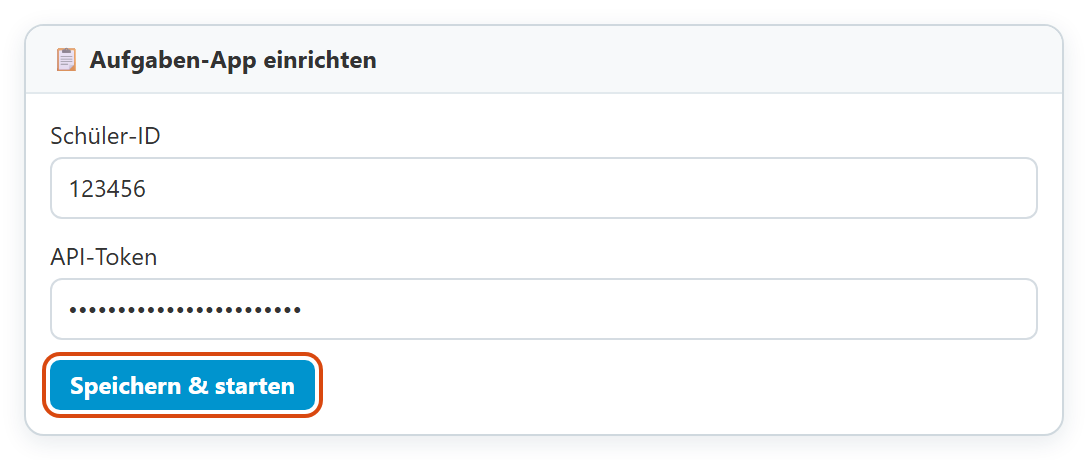
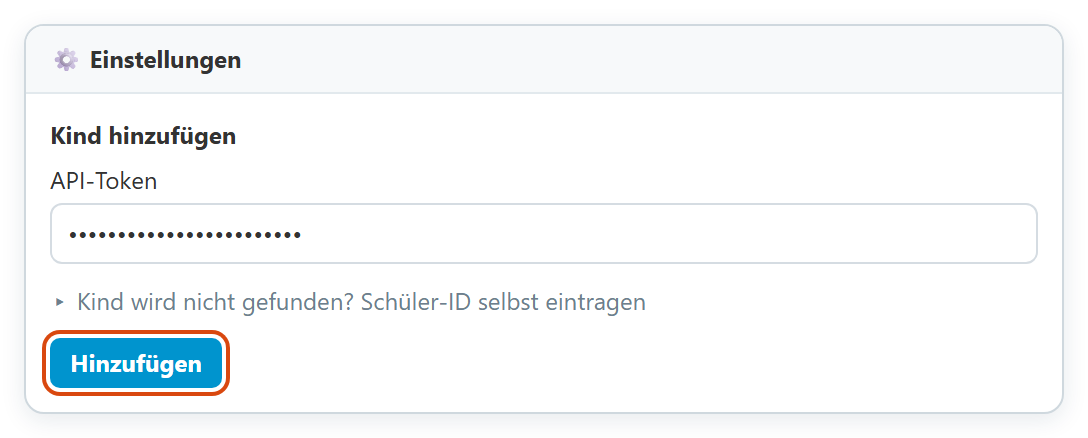
Version 1.0.9: einfachere Einrichtung, ganzes Schuljahr, Hinweis auf neue Versionen

diff --git a/README.md b/README.md
@@ -6,7 +6,7 @@ Die Aufgaben-App zeigt Hausaufgaben, angekündigte Tests, Hinweise der Lehrkräf
 
 - Läuft nur auf deinem Windows-PC, nicht in einer Cloud.
 - Liest nur. Bei beste.schule ändert die App nichts.
-- Verbindet sich ausschließlich mit beste.schule. Keine Werbung, keine Nutzungsstatistik.
+- Verbindet sich nur mit beste.schule und einmal am Tag mit GitHub, um nach einer neuen Version zu schauen. Keine Werbung, keine Nutzungsstatistik.
 - Kostenlos für nicht-kommerzielle Nutzung, der Quellcode ist einsehbar.
 
 <a href="https://github.com/Sunniiii/schuluebersicht/releases/latest"><img src="docs/bilder/download.png" alt="Neueste Version für Windows herunterladen" width="380"></a>
@@ -53,49 +53,39 @@ Warum eine `.cmd` und keine `.exe`? Eine eigene `.exe` ohne kostenpflichtiges Ze
 1. Die Seite [neueste Version](https://github.com/Sunniiii/schuluebersicht/releases/latest) öffnen und unten unter **Assets** auf `Aufgaben-App-<Version>-windows-x64.zip` klicken. Die anderen Dateien brauchst du nicht. Nur von dort laden; zum Weitergeben den Link schicken, nicht die Datei.
 2. **Vor dem Entpacken:** Rechtsklick auf die ZIP-Datei → **Eigenschaften** → unten Haken bei **Zulassen** → **OK**. Ohne diesen Schritt blockiert Windows die Startdatei.
 3. Das ZIP in einen eigenen Ordner entpacken, zum Beispiel unter **Dokumente**.
-4. **Aufgaben-App starten.cmd** doppelklicken. Ein schwarzes Fenster erscheint kurz, dann öffnet sich der Browser mit der Einrichtung. Dabei entstehen Verknüpfungen **Aufgaben-App** auf dem Desktop und im Startmenü; künftig startest du die App darüber.
+4. **Aufgaben-App starten.cmd** doppelklicken. Ein schwarzes Fenster erscheint kurz, dann öffnet sich die App im Browser. Dabei entstehen Verknüpfungen **Aufgaben-App** auf dem Desktop und im Startmenü; künftig startest du die App darüber.
 
-Solange die App läuft, steht ein Symbol im Infobereich unten rechts (eventuell unter dem Pfeil ^). Darüber öffnest oder beendest du die App.
+Solange die App läuft, steht unten rechts neben der Uhr ein blaues Symbol mit weißem Haken (eventuell unter dem Pfeil ^). Daran siehst du, dass die App an ist. Doppelklick darauf öffnet sie, Rechtsklick → **Beenden** schließt sie.
 
 ## Einrichtung
 
-Beim ersten Start fragt die App nach zwei Angaben aus beste.schule und zeigt dort dieselbe Anleitung. Die Bilder sind nachgezeichnet; die Oberfläche von beste.schule kann leicht abweichen.
+Die App braucht einmal einen Schlüssel von beste.schule. Dieser Schlüssel heißt dort **Token**. Dein Kind findet die App damit selbst. Die Bilder sind nachgezeichnet; bei beste.schule kann es etwas anders aussehen.
 
-### 1. Schüler-ID finden
-
-Bei [beste.schule](https://beste.schule) anmelden und die Notenübersicht des Kindes öffnen. In der Adresszeile des Browsers steht dann zum Beispiel `beste.schule/students/123456/grades`. Die Zahl zwischen `/students/` und `/grades` ist die Schüler-ID.
-
-<img src="docs/bilder/schueler-id.png" alt="Adresszeile mit hervorgehobener Schüler-ID 123456" width="520">
-
-### 2. API-Token erstellen
-
-Mit dem Token darf die App die Daten bei beste.schule lesen. Es gehört zu deinem Benutzerkonto und kann für mehrere Kinder gelten.
-
-1. Bei beste.schule oben rechts auf deinen Namen klicken und **Benutzerkonto** wählen.
+1. Öffne [beste.schule](https://beste.schule). Klicke oben rechts auf deinen Namen. Klicke dann auf **Benutzerkonto**.
 
    <img src="docs/bilder/konto-menue.png" alt="Menü unter dem eigenen Namen mit hervorgehobenem Eintrag Benutzerkonto" width="520">
 
-2. Links **API** anklicken. Nach unten zu **Personal Access Tokens** scrollen, nicht **OAuth-Clients** verwenden. Auf **+ Neuen Token erstellen** klicken.
+2. Klicke links auf **API**. Klicke dann auf **+ Neuen Token erstellen**.
 
    <img src="docs/bilder/api-seite.png" alt="Benutzerkonto mit hervorgehobenem Reiter API und Schaltfläche Neuen Token erstellen" width="520">
 
-3. Bei **Name** zum Beispiel `Aufgaben-App` eintragen. Unter **OPENID CONNECT** alle Kästchen leer lassen. Unter **API-ZUGRIFF** nur **Lesezugriff auf die API** ankreuzen, **Schreibzugriff auf die API** leer lassen. Unten rechts auf **Erstellen** klicken.
+3. Schreib bei **Name** zum Beispiel `Aufgaben-App`. Setz nur bei **Lesezugriff auf die API** einen Haken. Klicke auf **Erstellen**.
 
    <img src="docs/bilder/token-auswahl.png" alt="Fenster zum Erstellen des Tokens, nur Lesezugriff auf die API ist angekreuzt" width="520">
 
-4. Das Token wird nur **einmal** angezeigt. Sofort vollständig kopieren.
+4. Jetzt siehst du eine lange Reihe aus Buchstaben und Zahlen. Das ist dein Token. Kopiere es. Du siehst es nur dieses eine Mal.
 
    <img src="docs/bilder/token-kopieren.png" alt="Angezeigtes Token, hervorgehoben zum Kopieren" width="520">
 
-> Das Token wie ein Passwort behandeln und nicht weitergeben. Nicht das beste.schule-Passwort oder den Zugangsschlüssel der Schule eintragen.
+5. Klicke in der Aufgaben-App oben rechts auf **Einstellungen**. Füge das Token ein. Klicke auf **Hinzufügen**.
 
-### 3. In der App eintragen
+   <img src="docs/bilder/app-formular.png" alt="Einstellungen der App: Kind hinzufügen mit dem Feld API-Token" width="520">
 
-Schüler-ID und Token in das Einrichtungsformular einfügen und **Speichern & starten** klicken. Die App prüft die Angaben sofort bei beste.schule und meldet, wenn etwas nicht passt.
+**Fertig!** Jetzt siehst du die Hausaufgaben. Hast du mehrere Kinder, fragt die App, welche sie zeigen soll.
 
-<img src="docs/bilder/app-formular.png" alt="Einrichtungsformular der App mit Schüler-ID und Token" width="520">
+> Das Token ist wie ein Passwort. Gib es niemandem.
 
-Weitere Kinder legst du später unter **Einstellungen** → **Kind hinzufügen** an.
+**Die App findet dein Kind nicht?** Klicke in den Einstellungen auf **Kind wird nicht gefunden?** und folge dem Hinweis dort.
 
 ## Bedienung
 
@@ -107,10 +97,12 @@ Weitere Kinder legst du später unter **Einstellungen** → **Kind hinzufügen**
 4. Mit dem **Kästchen** hakst du einen Eintrag ab.
 5. Abgehakte Einträge liegen im eingeklappten Bereich **„… erledigt“**. Dort lässt sich ein Häkchen auch wieder entfernen.
 
+- Beim ersten Öffnen stehen alle Einträge seit Beginn des Schuljahres in der Übersicht. Hake ab, was schon erledigt ist. Ein kurzes Hinweisfenster erklärt das einmal und bietet an, alles, was älter als eine Woche ist, auf einmal abzuhaken. Die letzte Woche bleibt offen, weil Hausaufgaben bei beste.schule das Datum der Stunde tragen, in der sie aufgegeben wurden, nicht den Abgabetag.
 - Nur dein Häkchen verschiebt einen Eintrag. Ein Test bleibt auch nach seinem Termin offen, bis du ihn abhakst.
+- Wurde eine Stunde getauscht, steht ein Eintrag bei beste.schule manchmal im falschen Fach. Die App zeigt dann beim Fach an, was sonst in dieser Stunde liegt, zum Beispiel **EN (Stundenplanänderung, statt MA)**. Am Inhalt erkennst du, zu welchem Fach der Eintrag gehört.
 - Die Häkchen speichert die App nur auf diesem Rechner. Bei beste.schule und auf anderen Geräten sind sie nicht zu sehen.
 - Checklisten zeigt die App nur an; abhaken lassen sie sich hier nicht.
-- Oben rechts unter **Hilfe** steht eine ausführliche Anleitung mit Lösungen für häufige Probleme.
+- Oben rechts unter **Hilfe** steht eine kurze Anleitung mit Bildern und Lösungen für häufige Probleme.
 
 ## Wann werden die Daten abgerufen?
 
@@ -118,23 +110,23 @@ Solange die App läuft, holt sie die Daten beim Start und danach alle **30 Minut
 
 | Was | Zeitraum | Wie oft |
 |---|---|---|
-| Hausaufgaben, Tests, weitere Einträge, Stundenthemen | 30 Tage zurück bis 365 Tage voraus | bei jedem Abruf |
-| Hinweise vom Lehrer | vom 1. August des laufenden Schuljahres bis heute | bei jedem Abruf |
+| Hausaufgaben, Tests, weitere Einträge, Stundenthemen, Hinweise vom Lehrer | das ganze laufende Schuljahr: ab 1. August bis 365 Tage voraus | bei jedem Abruf |
 | Checklisten | alle Checklisten des Kindes | bei jedem Abruf; Einzelheiten bereits erledigter Checklisten höchstens alle 24 Stunden |
 | Deine Häkchen | nur auf diesem Rechner | sofort beim Anklicken gespeichert |
 
-Einträge, deren Unterrichtsstunde mehr als 30 Tage zurückliegt, ruft die App nicht mehr ab. Sie verschwinden dann aus der Übersicht, auch ohne Häkchen.
+Vergangene Einträge bleiben offen, bis du sie abhakst. Am 1. August beginnt ein neues Schuljahr: Dann verschwinden die Einträge des alten Schuljahres aus der Übersicht, auch ohne Häkchen.
 
 ## Daten und Datenschutz
 
 - Die App läuft nur auf diesem Rechner. Andere Geräte im Heimnetz können sie nicht aufrufen.
 - Zugangsdaten und Häkchen liegen in deinem Windows-Profil unter `%APPDATA%\AufgabenApp-BesteSchule`. Das Token ist verschlüsselt und nur mit deinem Windows-Konto lesbar.
 - Das Log liegt unter `%LOCALAPPDATA%\AufgabenApp-BesteSchule\logs\server.log`. Das Token steht nie darin.
+- Einmal am Tag fragt die App bei GitHub nach, ob es eine neue Version gibt. Dabei schickt sie keine Daten über dich oder dein Kind mit; GitHub sieht nur die IP-Adresse deines Anschlusses. Die App lädt nichts von selbst herunter.
 - Kennt jemand anderes dein Token, lösche es bei beste.schule unter **Benutzerkonto** → **API** und erstelle ein neues.
 
 ## Update und Entfernen
 
-**Update:** App beenden, das neue ZIP (nach **Zulassen**) in einen neuen Ordner entpacken und dort **Aufgaben-App starten.cmd** starten. Einstellungen und Häkchen bleiben erhalten, die Verknüpfungen zeigen danach auf den neuen Ordner. Den alten Ordner erst löschen, wenn die neue Version läuft.
+**Update:** Gibt es eine neue Version, zeigt die App oben in der Übersicht einen grünen Hinweis mit **Herunterladen**. Dann App beenden, das neue ZIP (nach **Zulassen**) in einen neuen Ordner entpacken und dort **Aufgaben-App starten.cmd** starten. Einstellungen und Häkchen bleiben erhalten, die Verknüpfungen zeigen danach auf den neuen Ordner. Den alten Ordner erst löschen, wenn die neue Version läuft.
 
 **Entfernen:** App beenden, Programmordner und Verknüpfungen löschen. Um auch Zugangsdaten, Häkchen und Log zu entfernen, zusätzlich die Ordner `AufgabenApp-BesteSchule` unter `%APPDATA%` und `%LOCALAPPDATA%` löschen.
 
